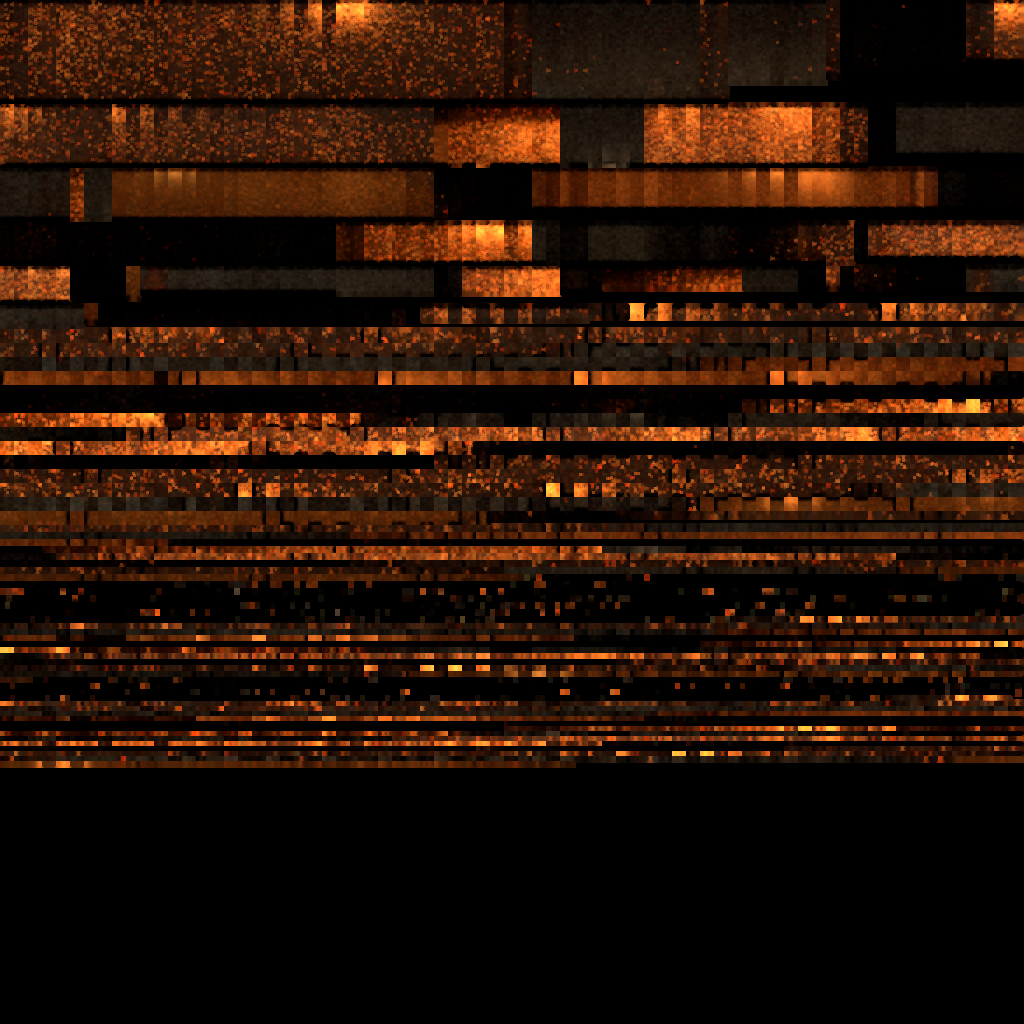
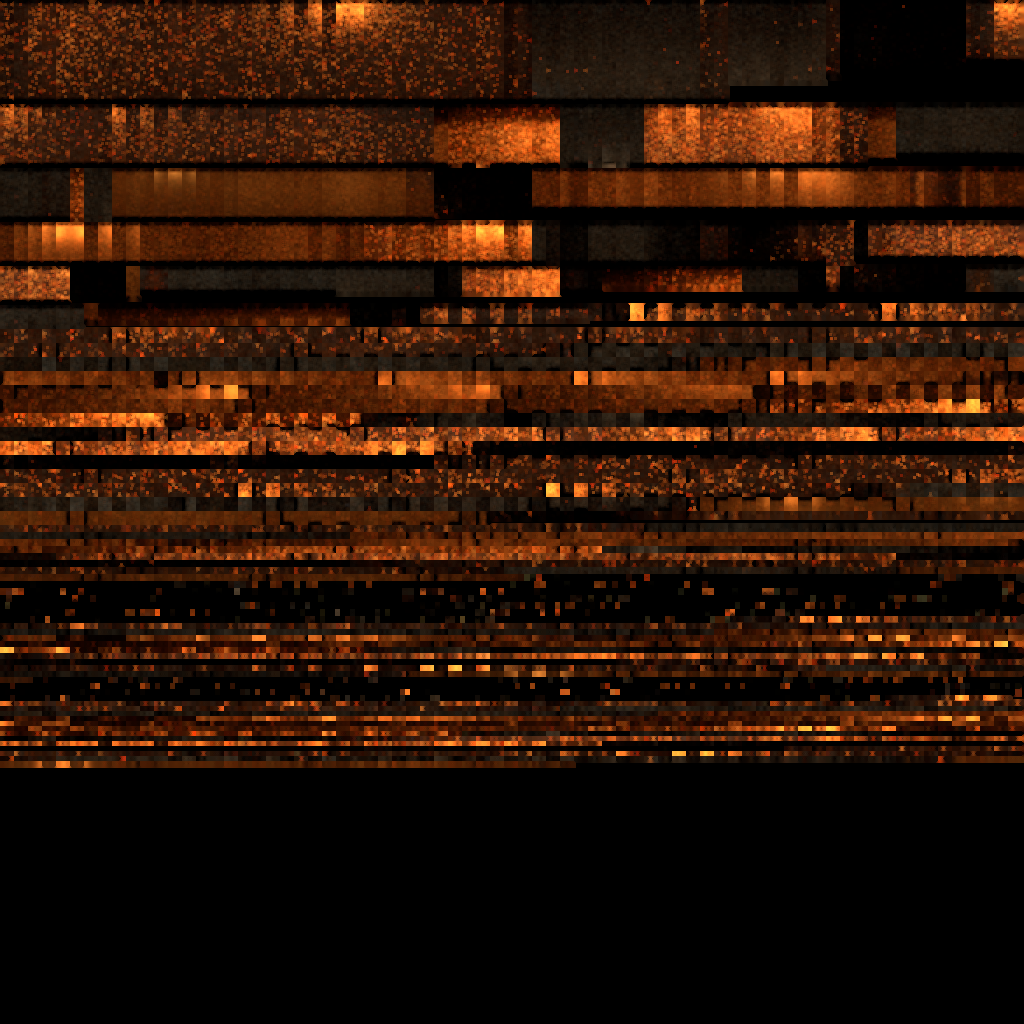
Root Halls: greener, brighter looks; a brazier in the nest; safe shot stands
The reference shots stood Nora on the bridge's thorns; the shot tool now
skips deadly floors. Lightmap re-baked with the nest's brazier.

Claude-Session: https://claude.ai/code/session_019LzoHZkyKj5zu7EwmkgZG8

diff --git a/scripts/browser/game.ts b/scripts/browser/game.ts
@@ -103,7 +103,7 @@ export async function openLevel(
 /** The level's rooms with a standing cell in each (its most central open floor). */
 export async function roomStands(page: Page): Promise<{ id: string; cx: number; cz: number }[]> {
   return page.evaluate(() => {
-    type Sector = { wall: boolean; pit: boolean; room: string };
+    type Sector = { wall: boolean; pit: boolean; room: string; flags: ReadonlySet<string> };
     const nc = (
       window as unknown as {
         __nc: {
@@ -126,7 +126,8 @@ export async function roomStands(page: Page): Promise<{ id: string; cx: number; 
       for (let cz = r.minZ; cz < r.maxZ; cz++)
         for (let cx = r.minX; cx < r.maxX; cx++) {
           const s = lv.sector(cx, cz);
-          if (!s || s.wall || s.pit || s.room !== r.id) continue;
+          // Never on a deadly floor (spikes, thorns): she would die before the shot.
+          if (!s || s.wall || s.pit || s.flags.has('death') || s.room !== r.id) continue;
           if (!Number.isFinite(nc.world.grid.floorAt(cx * 2 + 1, cz * 2 + 1))) continue;
           const d = Math.hypot(cx + 0.5 - mx, cz + 0.5 - mz);
           if (!best || d < best.d) best = { cx, cz, d };

diff --git a/docs/changelog.md b/docs/changelog.md
@@ -19,7 +19,8 @@ The last of the three releases on the way to 0.8.0 (docs/roadmap.md): chamber V 
   - Chamber V gets its entry, with the seed figure and a music palette.
   - Players who already reached a later chamber find V open.
   - Three of the owner's texts change now that V sits between IV and VI: the Archive's teaser, the first line of the Forge's intro, and the Forge's last line, which now names the way through.
-- **Looks and light**: ten looks in moss green and amber, with filtered daylight and damp, and a baked lightmap.
+- **Looks and light**: ten looks in moss green and amber, with filtered daylight and damp, and a baked lightmap. The stone keeps the shared texture: its green comes from the light until the root kit and a mossy stone arrive. A brazier in the scorpions' nest keeps it readable.
+- **Reference shots**: `pnpm shots` no longer stands Nora on a deadly floor, which killed her in the bridge's chasm and spoiled the shots after it.
 - **Tangles** can start sealed or parted (`hold`), so rules can hold them until the right moment.
 - **Tests**:
   - tests/root-halls.test.ts: the bot plays the whole chamber with every secret and no deaths, and four checks that each puzzle is needed and has no dead end.
